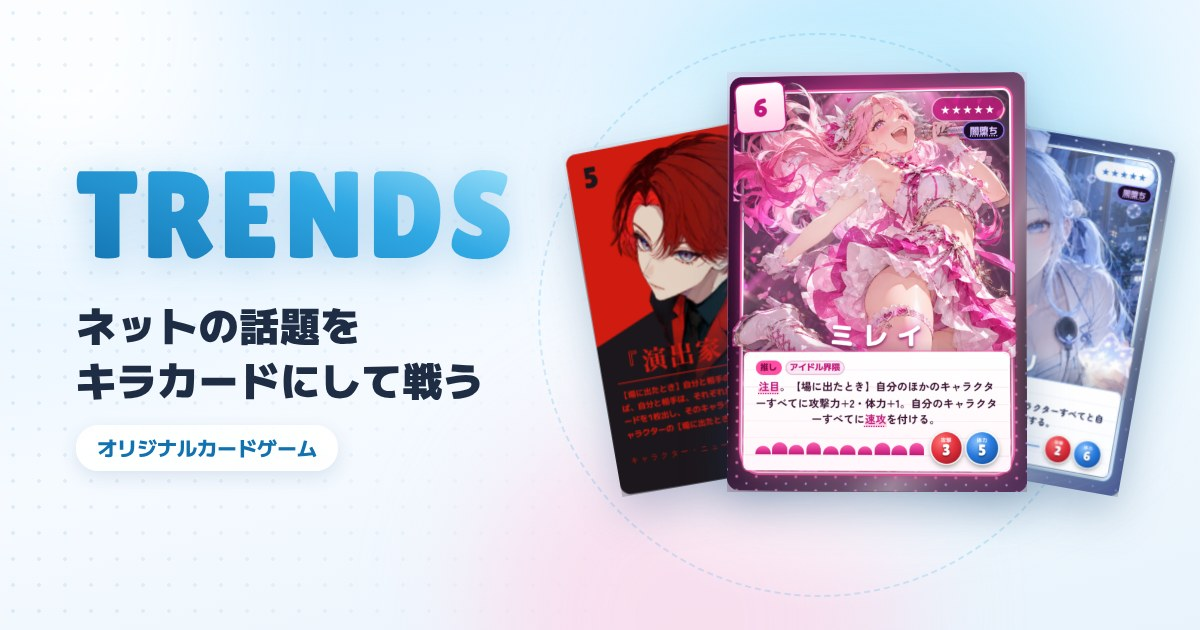
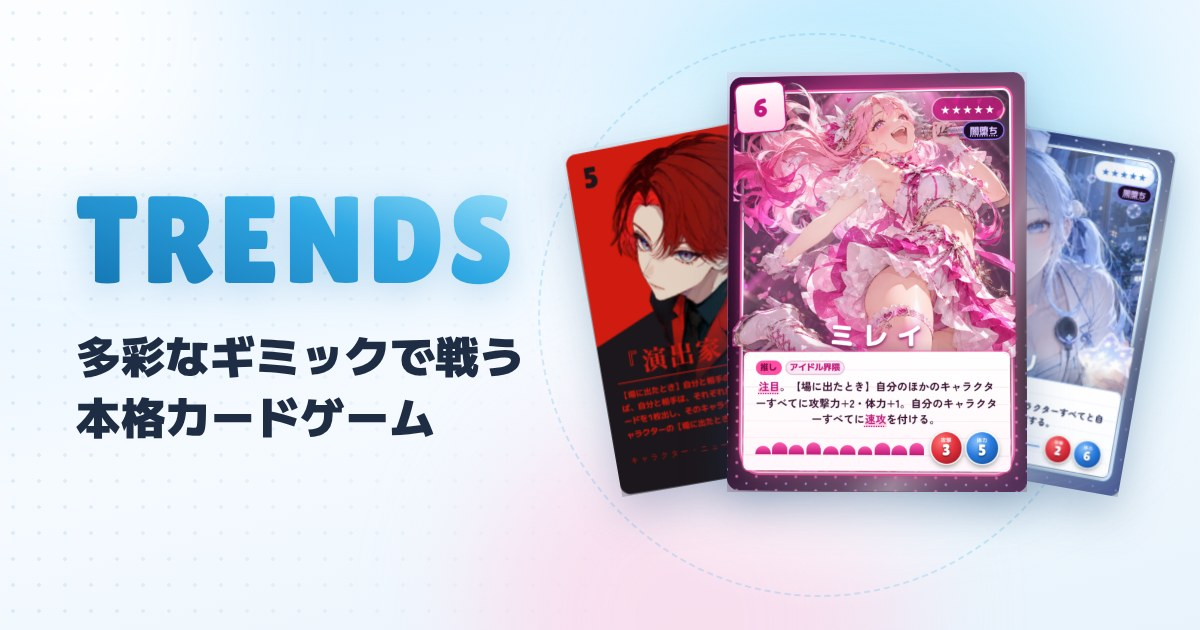
リンクのプレビューの文言を、売り（多彩なギミック・本格カードゲーム・おしゃれな演出など）に合わせて変える
- 絵の文字を「多彩なギミックで戦う / 本格カードゲーム」に
- 説明文を「おしゃれな演出・わかりやすい操作・豊富なキャラクター。多彩なギミックで戦う本格カードゲーム」に
- 絵の URL に ?v=2 を付ける（LINE・X が前の絵を覚えたままにしないように）

Claude-Session: https://claude.ai/code/session_0136Sn6Lnf4rhTwv4fLMfrKa

Changed region(s): [[0.0617, 0.4825, 0.4317, 0.7238], [0.0617, 0.2714, 0.4317, 0.4524]]

diff --git a/apps/api/src/ogp.ts b/apps/api/src/ogp.ts
@@ -8,8 +8,11 @@ import type { Request } from "express";
 
 /** プレビューの絵（1200×630。apps/web/public/ogp.jpg） */
 export const OGP_IMAGE = "/ogp.jpg";
+/** 絵を差し替えたら上げる（LINE・X などが前の絵を覚えたままにしないよう、絵の URL に付ける） */
+const OGP_IMAGE_VERSION = 2;
 
-const ABOUT = "ネットの話題をキラカードにして戦う、オリジナルカードゲーム";
+/** 説明文（10月27日。オーナーが挙げた売り：おしゃれな演出・わかりやすい操作・豊富なキャラクター。絵の文字は「多彩なギミックで戦う 本格カードゲーム」） */
+const ABOUT = "おしゃれな演出・わかりやすい操作・豊富なキャラクター。多彩なギミックで戦う本格カードゲーム";
 
 export interface Preview {
   title: string;
@@ -51,7 +54,7 @@ export function ogpTags(req: Request, preview: Preview): string {
   ];
   if (origin) {
     meta.push(
-      ["og:image", `${origin}${OGP_IMAGE}`],
+      ["og:image", `${origin}${OGP_IMAGE}?v=${OGP_IMAGE_VERSION}`],
       ["og:image:width", "1200"],
       ["og:image:height", "630"],
       ["og:image:alt", "TRENDS"],

diff --git a/apps/api/test/web.test.ts b/apps/api/test/web.test.ts
@@ -52,7 +52,7 @@ describe("serveWeb", () => {
     expect(res.headers["cache-control"]).toBe("no-cache");
     const head = res.text.slice(0, res.text.indexOf("</head>"));
     expect(head).toContain('property="og:title" content="TRENDS"');
-    expect(head).toContain('property="og:image" content="https://trends.example/ogp.jpg"');
+    expect(head).toContain('property="og:image" content="https://trends.example/ogp.jpg?v=2"');
     // 対戦の部屋のリンクは、誘われたことが分かる題名にする
     const room = await request(app.getHttpServer()).get("/online/AB12").set("Accept", "text/html");
     expect(room.text).toContain("オンライン対戦に誘われました");

diff --git a/apps/api/test/security.test.ts b/apps/api/test/security.test.ts
@@ -120,7 +120,7 @@ describe("protect", () => {
       .set("X-Forwarded-For", "192.0.2.50");
     expect(res.status).toBe(200);
     expect(res.text).toContain('property="og:title" content="TRENDS に招待されました"');
-    expect(res.text).toContain('property="og:image" content="https://trends.example/ogp.jpg"');
+    expect(res.text).toContain('property="og:image" content="https://trends.example/ogp.jpg?v=2"');
     expect(res.text).toContain('name="twitter:card" content="summary_large_image"');
     // 合言葉そのものは、プレビューにも書かない
     expect(res.text).not.toContain("open-sesame");

diff --git a/docs/deploy.md b/docs/deploy.md
@@ -40,7 +40,7 @@
 | 守り | 中身 |
 |---|---|
 | 招待リンク | 合言葉の付いた URL（`https://…run.app/?invite=合言葉`）で一度開いた端末だけが使える。開くと端末に「招待済み」のクッキー（合言葉のハッシュ。1年）を置いてそのまま画面を返し、画面がアドレスバーから合言葉を消す（10月27日まではサーバーが開き直させていたが、リンクのプレビューを作るロボットはクッキーを持ち越さず「準備中」を読んでしまうため、開き直させない形にした）。招待されていない人には「準備中」の画面だけを出し、API とオンライン対戦（Socket.IO）も断る。友だちを足すたびにインフラを変える必要は無い。招待済みの人は、ホームのメニューかマイページの「友だちを招待」で、自分でリンクを出して送れる |
-| リンクのプレビュー | LINE・X・Discord などにリンクを貼ると、絵（`apps/web/public/ogp.jpg`、1200×630）と題名のカードが出る（OGP。`apps/api/src/ogp.ts` が画面の `<head>` に差し込む）。題名は、招待リンク「TRENDS に招待されました」・対戦の部屋のリンク「TRENDS のオンライン対戦に誘われました」・ふつう「TRENDS」。絵は招待なしでも取れる |
+| リンクのプレビュー | LINE・X・Discord などにリンクを貼ると、絵（`apps/web/public/ogp.jpg`、1200×630）と題名のカードが出る（OGP。`apps/api/src/ogp.ts` が画面の `<head>` に差し込む）。題名は、招待リンク「TRENDS に招待されました」・対戦の部屋のリンク「TRENDS のオンライン対戦に誘われました」・ふつう「TRENDS」。絵は招待なしでも取れる。絵を差し替えたら `ogp.ts` の `OGP_IMAGE_VERSION` を上げる（LINE・X が前の絵を覚えたままにしないよう、絵の URL に `?v=` を付けている） |
 | 回数の制限 | 同じ IP から 1 分に 1,200 回まで（全部）・書き込みは 1 分に 60 回まで。合言葉の間違いは 10 分に 10 回まで（総当たり止め） |
 | 応答ヘッダー | nosniff・よそのページへの埋め込み禁止・Referrer の絞り・HSTS・カメラ等の不使用・`X-Robots-Tag: noindex` |
 | 検索に載せない | `robots.txt`（検索エンジンは全部お断り。X など robots.txt を守るリンクのプレビューのロボットだけ通す）・`<meta name="robots" content="noindex">` |

diff --git a/docs/history.md b/docs/history.md
@@ -1559,3 +1559,11 @@
   - 流していない曲は、読んで音の波にしたものを手放す（対戦の曲だけで 60MB ほどあるため）。戻ったときに読み直す。アプリが裏に回ったときは手放さず、すぐ止める
 - 確かめ：Playwright の Chromium で、ホーム → ガチャ → 止める・流す → ホーム → デッキ選び（鳴らない）→ CPU 戦 → 止める・流す → やめる（鳴らない）を、流れている曲と音の大きさで確かめた。戻ると止めたところから流れることも。実機ではまだ聞いていない
 - 見つけたこと（直していない）：盤面の上の帯で、ターン表示が長い（TURN 10 など）と、オンライン対戦の「記録」「降参」が 2 行に折れる。音楽のボタンを足す前からで、足しても変わらない
+
+## 10月27日：リンクのプレビューの文言を、売りに合わせて変える
+
+- オーナー：「OGPの謳い文句は・おしゃれな演出・本格的カードゲーム・わかりやすい操作感・豊富なキャラクター を売りにした文言に変えたい」→ Claude が絵の文字 2 案と説明文 3 案を出した
+- オーナー：「多彩なギミックで戦う 本格カードゲーム」「ディスクリプションにおしゃれ…系を入れて更新」「上二行が画像ね」
+  - 絵（`apps/web/public/ogp.jpg`）：「ネットの話題をキラカードにして戦う」「オリジナルカードゲーム」を、「多彩なギミックで戦う / 本格カードゲーム」の 2 行に替えた（ロゴとカード 3 枚はそのまま）
+  - 説明文（og:description）：「おしゃれな演出・わかりやすい操作・豊富なキャラクター。多彩なギミックで戦う本格カードゲーム」。招待リンクは後ろに「。リンクを開くと遊べます」。対戦の部屋のリンクは前のまま
+- Claude の案（オーナーの指示ではない）：絵の URL に `?v=2` を付けた（LINE・X が前の絵を覚えたままにしないように）。「キャラクター60種類以上」と数で書く案も出したが、オーナーの言葉どおり「豊富なキャラクター」にした
